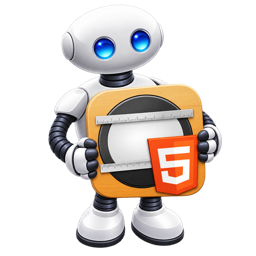
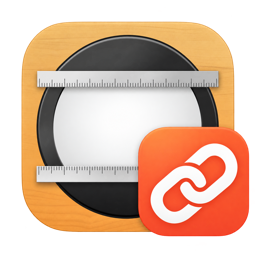
Publish Connector branding and notarized build 22

diff --git a/site/index.html b/site/index.html
@@ -6,37 +6,27 @@
   <meta name="theme-color" content="#f5f4f0">
   <meta name="description" content="Build editable Hype documents with scripts or agents. Connector brings local CLI, AppleScript and MCP automation to Tumult Hype 4.">
   <meta property="og:title" content="Connector — Automations for Tumult Hype 4">
-  <meta property="og:description" content="Build in Hype. Run it again. Local scripting and agent tools for editable documents.">
+  <meta property="og:description" content="Built in Hype. Ready to run again. Local scripting and agent tools for editable documents.">
   <meta property="og:type" content="website">
   <meta property="og:url" content="https://worldoptimizer.github.io/hype-connector/">
   <!--SHARE_METADATA-->
   <title>Connector — Automations for Tumult Hype 4</title>
   <link rel="icon" href="assets/connector-app-icon.png" type="image/png">
   <link rel="stylesheet" href="assets/style.css">
+  <link rel="stylesheet" href="assets/connector-brand.css">
   <script src="assets/site.js" defer></script>
 </head>
 <body>
 <a class="skip" href="#main">Skip to content</a>
 <!--PREVIEW_NOTICE-->
 <header class="site-header wrap">
-  <a class="brand" href="./">Connector</a>
+  <a class="brand" href="./"><img src="assets/connector-app-icon.png" width="76" height="76" alt="">Connector</a>
   <nav aria-label="Main navigation"><a href="#examples">Examples</a><a href="guides/getting-started.html">Documentation</a><a href="guides/agent-skill.html">Agent skill</a><a href="#download">Download</a></nav>
 </header>
 <main id="main">
-  <section class="hero wrap" aria-labelledby="hero-title">
-    <h1 id="hero-title">Build in Hype.<br>Run it again.</h1>
-    <div class="hero-intro"><p>Automations for Tumult Hype 4.</p><p>Create scenes, add content, animate and export through scripts or an agent. The result stays editable in Hype.</p><a class="button" href="#download">Get Connector</a></div>
-  </section>
+  <section class="hero wrap" aria-labelledby="hero-title"><div class="hero-copy"><h1 id="hero-title">Built in Hype.<br>Ready to run again.</h1><div class="hero-intro"><p>Automations for Tumult Hype 4.</p><p>Create scenes, add content, animate and export through scripts or an agent. The result stays editable in Hype.</p><a class="button" href="#download">Get Connector</a></div></div><img class="hero-art" src="assets/connector-hero-v1.png" alt="Connector robot presenting CLI, AppleScript and MCP around the Connector app icon" width="1280" height="1280" fetchpriority="high"></section>
 
-  <section class="showcase wrap" id="examples" aria-labelledby="showcase-title">
-    <figure>
-      <img class="showcase-image" src="assets/eiszeit.jpg" width="886" height="590" alt="EISZEIT start scene: cream background, large red typography, two navigation buttons and a strawberry and vanilla ice cream photograph." fetchpriority="high">
-      <figcaption class="showcase-caption">
-        <h2 id="showcase-title">Made with Connector.<br>EISZEIT.</h2>
-        <div><p>A three-scene Hype document, built through Connector. An ice cream campaign with an ingredients page, different scene transitions and an interactive flavour choice.</p><p>Text, images and controls remain separate editable elements. The giveaway is a local demonstration without data collection.</p><!--SHOWCASE_LINK--></div>
-      </figcaption>
-    </figure>
-  </section>
+
 
   <section class="section wrap split" id="workflows" aria-labelledby="workflows-title">
     <div class="section-intro"><h2 id="workflows-title">A script when you know the steps.<br>An agent when you want help.</h2><p>Connector runs locally alongside Hype. CLI, MCP and AppleScript use the same operations. No AI service is needed to run a script.</p><a href="guides/scripting.html">Read the scripting guide</a></div>
@@ -84,7 +74,16 @@ end tell</code></pre>
     <nav class="guide-links" aria-label="Guides"><a href="guides/getting-started.html">Install and connect</a><a href="guides/scripting.html">Write a script</a><a href="guides/examples.html">Run the Python examples</a><a href="guides/mcp.html">Set up MCP</a><a href="guides/applescript.html">Use AppleScript</a><a href="guides/troubleshooting.html">Resolve connection and editing errors</a></nav>
   </section>
 
-  <section class="download-section" id="download" aria-labelledby="download-title"><div class="wrap download-layout"><div><img class="app-icon" src="assets/connector-app-icon.png" alt="Connector robot holding the Hype icon" width="120" height="120"><h2 id="download-title">Connector</h2><p>Automations for Tumult Hype 4.</p><p>Version 0.1.4 · Developer ID signed and notarized.</p><!--DOWNLOAD_BUTTON--></div><div class="download-details"><p>macOS 14 or later.<br>Tumult Hype 4.1.22.<br>Universal app for Apple Silicon and Intel.</p><p>Verified on Apple Silicon and under Rosetta. Physical Intel Macs and other Hype versions have not been qualified.</p><p>Signed automatic updates are enabled. If you have 0.1.3, install this version once to join the update channel.</p></div></div></section>
+  <section class="showcase wrap" id="examples" aria-labelledby="showcase-title">
+    <figure>
+      <img class="showcase-image" src="assets/eiszeit.jpg" width="886" height="590" alt="EISZEIT start scene: cream background, large red typography, two navigation buttons and a strawberry and vanilla ice cream photograph." loading="lazy">
+      <figcaption class="showcase-caption">
+        <h2 id="showcase-title">Made with Connector.<br>EISZEIT.</h2>
+        <div><p>A three-scene Hype document, built through Connector. An ice cream campaign with an ingredients page, different scene transitions and an interactive flavour choice.</p><p>Text, images and controls remain separate editable elements. The giveaway is a local demonstration without data collection.</p><!--SHOWCASE_LINK--></div>
+      </figcaption>
+    </figure>
+  </section>
+<section class="download-section" id="download" aria-labelledby="download-title"><div class="wrap download-layout"><div><h2 id="download-title">Connector</h2><p>Automations for Tumult Hype 4.</p><p>Version 0.1.4 · Developer ID signed and notarized.</p><!--DOWNLOAD_BUTTON--></div><div class="download-details"><p>macOS 14 or later.<br>Tumult Hype 4.1.22.<br>Universal app for Apple Silicon and Intel.</p><p>Verified on Apple Silicon and under Rosetta. Physical Intel Macs and other Hype versions have not been qualified.</p><p>Signed automatic updates are enabled. If you have 0.1.3, install this version once to join the update channel.</p></div></div></section>
 </main>
 <footer class="footer wrap"><p>By <a href="https://github.com/worldoptimizer">Max Ziebell</a>. Independent software for Tumult Hype.</p><a href="https://github.com/worldoptimizer/hype-connector">GitHub</a></footer>
 <div class="copy-status sr-only" aria-live="polite"></div>

diff --git a/site/assets/connector-brand.css b/site/assets/connector-brand.css
@@ -1,0 +1,4 @@
+
+.brand{display:flex;align-items:center;gap:13px}.brand img{width:76px;height:76px;object-fit:contain}.site-header{min-height:120px}.hero{grid-template-columns:minmax(300px,.9fr) minmax(0,1.4fr);align-items:center;gap:30px;padding-block:50px 65px}.hero h1{font-size:clamp(42px,4.6vw,66px);line-height:1.04}.hero-intro{font-size:19px;margin-top:27px;max-width:400px}.hero-intro p:first-child{font-size:21px}.hero-intro .button{margin-top:25px}.hero-art{width:100%;height:auto;object-fit:contain;mix-blend-mode:normal;max-height:550px}.showcase{border-top:1px solid var(--line);padding-top:48px}.showcase figure{display:grid;grid-template-columns:1.05fr 1fr;gap:52px;align-items:center}.showcase-caption{display:block;padding:0}.showcase-caption h2{font-size:35px;margin-bottom:23px}.showcase-caption p{font-size:18px}.showcase-caption p+p{font-size:17px}.showcase-caption a{font-size:18px}.showcase-image{width:100%;height:auto}.section{padding-block:64px}
+@media(max-width:900px){.hero{gap:12px}.hero h1{font-size:46px}.hero-intro{font-size:18px}.hero-intro p:first-child{font-size:19px}.showcase figure{gap:30px}.showcase-caption h2{font-size:30px}}
+@media(max-width:760px){.hero{grid-template-columns:1fr;padding-block:36px;gap:20px}.hero h1{font-size:46px}.hero-art{max-height:370px}.hero-intro{max-width:500px}.showcase figure{grid-template-columns:1fr}.showcase-caption h2{font-size:30px}.brand img{width:60px;height:60px}}

diff --git a/scripts/build_site.py b/scripts/build_site.py
@@ -28,10 +28,10 @@ DOCS = [
     ('skills/hype-connector/references/design-recipes.md', 'skill-design', 'Design recipes'),
 ]
 EXAMPLES = ['build_template.py', 'build_image_template.py', 'build_animation_template.py']
-ASSETS = ['style.css', 'site.js', 'connector-mark.svg', 'connector-app-icon.png', 'eiszeit.jpg', 'connector-share-v1.png']
+ASSETS = ['style.css', 'site.js', 'connector-mark.svg', 'connector-app-icon.png', 'eiszeit.jpg', 'connector-share-v2.png', 'connector-hero-v1.png', 'connector-brand.css']
 SITE_URL = 'https://worldoptimizer.github.io/hype-connector/'
-SHARE_IMAGE = SITE_URL + 'assets/connector-share-v1.png'
-SHARE_ALT = 'Connector — Automations for Tumult Hype 4, with the Hype app icon on a warm white background.'
+SHARE_IMAGE = SITE_URL + 'assets/connector-share-v2.png'
+SHARE_ALT = 'Connector — Automations for Tumult Hype 4, with the Connector chain-link app icon on a warm white background.'
 
 
 def share_tags():
@@ -88,8 +88,8 @@ def build(preview=False):
     (dist / 'updates').mkdir()
     shutil.copyfile(feed, dist / 'updates/appcast.xml')
     banner = ('<div class="preview-banner">Local preview. Nothing has been published.</div>' if preview else '')
-    button = ('<a class="button" href="downloads/Connector-0.1.4-build21.dmg">Download local app</a>'
-              if preview else '<a class="button" href="https://github.com/worldoptimizer/hype-connector/releases/download/v0.1.4/Connector-0.1.4-build21.dmg">Download for macOS</a>')
+    button = ('<a class="button" href="downloads/Connector-0.1.4-build22.dmg">Download local app</a>'
+              if preview else '<a class="button" href="https://github.com/worldoptimizer/hype-connector/releases/download/v0.1.4/Connector-0.1.4-build22.dmg">Download for macOS</a>')
     homepage = (ROOT / 'site/index.html').read_text().replace('<!--PREVIEW_NOTICE-->', banner).replace('<!--DOWNLOAD_BUTTON-->', button)
     homepage = homepage.replace('<!--SHARE_METADATA-->', share_tags())
     showcase_link = '<a href="demos/eiszeit/index.html">Play the EISZEIT demo</a>'
@@ -129,9 +129,9 @@ def build(preview=False):
         content = rewrite_links(content, source)
         nav = ''.join('<a href="' + other + '.html"' + (' aria-current="page"' if other == slug else '') + '>' + html.escape(label) + '</a>' for path, other, label in DOCS if path != 'examples/README.md')
         document = f'''<!doctype html>
-<html lang="en"><head><meta charset="utf-8"><meta name="viewport" content="width=device-width, initial-scale=1"><meta name="theme-color" content="#f5f4f0"><title>{html.escape(title)} — Connector</title><meta name="description" content="{html.escape(title)} with Connector for Tumult Hype 4."><link rel="icon" href="../assets/connector-app-icon.png" type="image/png"><link rel="stylesheet" href="../assets/style.css"><script src="../assets/site.js" defer></script></head>
+<html lang="en"><head><meta charset="utf-8"><meta name="viewport" content="width=device-width, initial-scale=1"><meta name="theme-color" content="#f5f4f0"><title>{html.escape(title)} — Connector</title><meta name="description" content="{html.escape(title)} with Connector for Tumult Hype 4."><link rel="icon" href="../assets/connector-app-icon.png" type="image/png"><link rel="stylesheet" href="../assets/style.css"><link rel="stylesheet" href="../assets/connector-brand.css"><script src="../assets/site.js" defer></script></head>
 <body><a class="skip" href="#main">Skip to content</a>{banner}
-<header class="site-header wrap"><a class="brand" href="../">Connector</a><nav aria-label="Main navigation"><a href="../#examples">Examples</a><a href="getting-started.html">Documentation</a><a href="agent-skill.html">Agent skill</a><a href="../#download">Download</a></nav></header>
+<header class="site-header wrap"><a class="brand" href="../"><img src="../assets/connector-app-icon.png" width="76" height="76" alt="">Connector</a><nav aria-label="Main navigation"><a href="../#examples">Examples</a><a href="getting-started.html">Documentation</a><a href="agent-skill.html">Agent skill</a><a href="../#download">Download</a></nav></header>
 <div class="doc-layout wrap"><aside class="doc-sidebar" aria-label="Documentation"><details class="guide-menu" open><summary>Browse guides</summary><label class="sr-only" for="guide-filter">Filter guide titles</label><input id="guide-filter" class="doc-search" type="search" placeholder="Find a guide"><nav aria-label="Guide navigation">{nav}</nav><p class="search-empty" hidden>No matching guide titles.</p></details></aside><main id="main" class="doc-content">{content}<div class="doc-end">Connector 0.1.4 · <a href="https://github.com/worldoptimizer/hype-connector">Project on GitHub</a></div></main></div>
 <footer class="footer wrap"><p>By Max Ziebell. Independent software for Tumult Hype.</p><a href="../">Connector home</a></footer><div class="copy-status sr-only" aria-live="polite"></div></body></html>'''
         metadata = (f'<meta property="og:title" content="{html.escape(title, quote=True)} — Connector">'

diff --git a/scripts/serve_preview.py b/scripts/serve_preview.py
@@ -22,14 +22,14 @@ def main():
 
     class Handler(SimpleHTTPRequestHandler):
         def do_GET(self):
-            if urlsplit(self.path).path == '/downloads/Connector-0.1.4-build21.dmg':
+            if urlsplit(self.path).path == '/downloads/Connector-0.1.4-build22.dmg':
                 if not artifact:
                     self.send_error(503, 'No local app download selected for this design preview')
                     return
                 self.send_response(200)
                 self.send_header('Content-Type', 'application/x-apple-diskimage')
                 self.send_header('Content-Length', str(artifact.stat().st_size))
-                self.send_header('Content-Disposition', 'attachment; filename="Connector-0.1.4-build21.dmg"')
+                self.send_header('Content-Disposition', 'attachment; filename="Connector-0.1.4-build22.dmg"')
                 self.end_headers()
                 with artifact.open('rb') as stream:
                     shutil.copyfileobj(stream, self.wfile)

diff --git a/skills/hype-connector/references/compatibility.md b/skills/hype-connector/references/compatibility.md
@@ -2,7 +2,7 @@
 
 ## Qualified baseline
 
-The current public guidance targets Connector 0.1.4, app build 21 and plugin build 16, with Tumult Hype 4.1.22 build 786. The app requires macOS 14 or later. Native workflows have been exercised on Apple Silicon and with the Intel executable under Rosetta. This is not physical Intel hardware qualification or a Hype 5 compatibility claim.
+The current public guidance targets Connector 0.1.4, app build 22 and plugin build 16, with Tumult Hype 4.1.22 build 786. The app requires macOS 14 or later. Native workflows have been exercised on Apple Silicon and with the Intel executable under Rosetta. This is not physical Intel hardware qualification or a Hype 5 compatibility claim.
 
 The catalog contains 50 service operations. Representative current-build workflows exercised each operation name, including the native escape hatch. That does not establish every property, argument combination, document structure, architecture or editor state. A successful catalog lookup establishes the request shape; runtime capabilities establish that the loaded plugin advertises it; a successful response establishes only that particular invocation's reported result.
 

diff --git a/skills/hype-connector/references/connection-and-delivery.md b/skills/hype-connector/references/connection-and-delivery.md
@@ -1,6 +1,6 @@
 # Connection, documents and delivery
 
-Use this reference for choosing a transport, creating/opening a document, saving, exporting and resolving completion. The supported baseline is Connector 0.1.4 build 21 with Hype 4.1.22 build 786 on macOS 14+. Check the running plugin's capabilities; a newer installed app does not replace a plugin already loaded in Hype.
+Use this reference for choosing a transport, creating/opening a document, saving, exporting and resolving completion. The supported baseline is Connector 0.1.4 build 22 with Hype 4.1.22 build 786 on macOS 14+. Check the running plugin's capabilities; a newer installed app does not replace a plugin already loaded in Hype.
 
 ## Connect once, keep the identity
 

diff --git a/docs/getting-started.md b/docs/getting-started.md
@@ -8,7 +8,7 @@ The Connector app installs its plugin inside Hype and manages the connection. Yo
 
 - macOS 14 or later.
 - Tumult Hype 4. Compatibility for this preview is established with **Hype 4.1.22, build 786**. A newer version is not automatically supported simply because it starts.
-- Connector 0.1.4, build 21.
+- Connector 0.1.4, build 22.
 - Python 3 for the optional example scripts. Connector itself does not require Python.
 
 ## Install and connect
